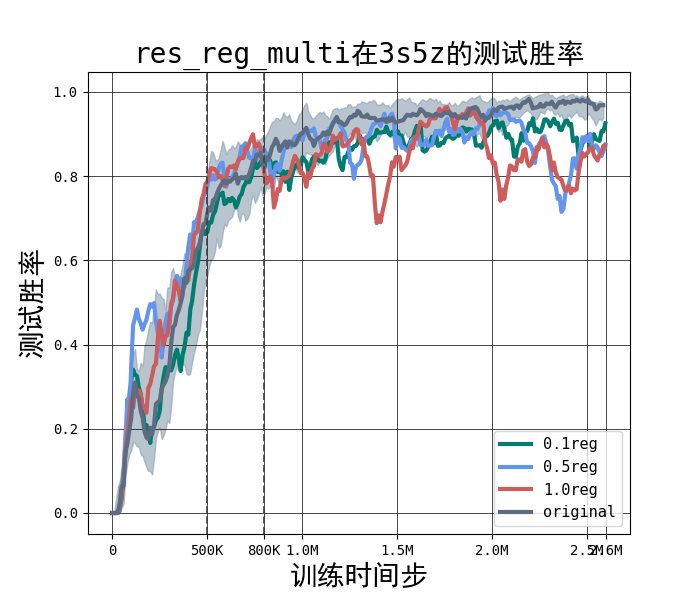
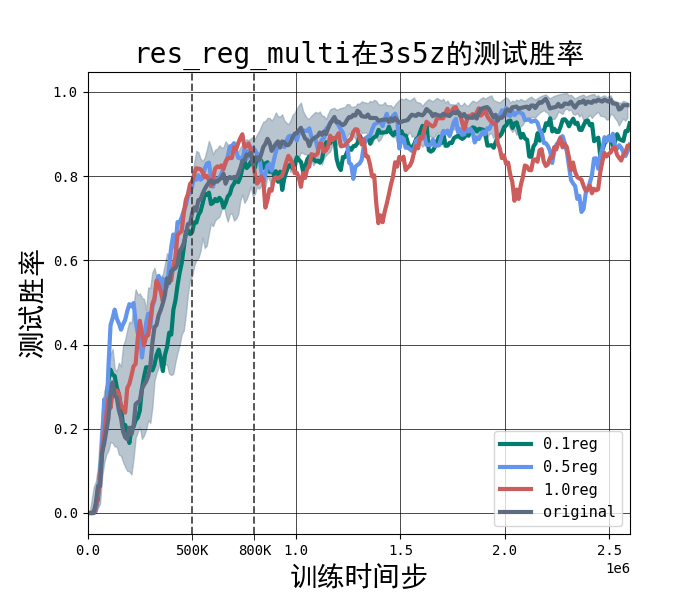
优化绘图代码 - 使用虚线体现分阶段

diff --git a/drawFigure/analyse/analyse.py b/drawFigure/analyse/analyse.py
@@ -2,6 +2,7 @@ import os
 import numpy as np
 import matplotlib.pyplot as plt
 from tensorboard.backend.event_processing import event_accumulator
+from matplotlib.ticker import FuncFormatter
 
 
 plt.rcParams["font.family"] = ["DejaVu Sans Mono", "SimHei"]  # 设置中文字体
@@ -303,6 +304,17 @@ def plot_map_algorithms(
         ax = plt.gca()
         x_axis_max = max_steps if max_steps else global_max_step
         filtered_boundaries = sorted(b for b in phase_boundaries if 0 < b < x_axis_max)
+        ax.set_xlim(left=0, right=x_axis_max)
+
+        # 若边界与主网格重合，则移除该主网格线，保留阶段虚线
+        major_ticks = [t for t in ax.get_xticks() if 0 <= t <= x_axis_max]
+        tol = 1e-6
+        filtered_major_ticks = [
+            t
+            for t in major_ticks
+            if not any(abs(t - b) <= tol for b in filtered_boundaries)
+        ]
+        ax.set_xticks(filtered_major_ticks)
 
         for boundary in filtered_boundaries:
             plt.axvline(
@@ -313,13 +325,12 @@ def plot_map_algorithms(
                 alpha=0.9,
             )
 
-        # 保留原有自动刻度（对应原网格），仅额外插入阶段边界相关刻度
-        original_ticks = [t for t in ax.get_xticks() if 0 <= t <= x_axis_max]
-        tick_values = original_ticks + [0] + filtered_boundaries + [x_axis_max]
-        tick_values = sorted(set(float(v) for v in tick_values))
-        tick_labels = [_format_step_label(v) for v in tick_values]
-        ax.set_xticks(tick_values)
-        ax.set_xticklabels(tick_labels)
+        # 保留原有主刻度和网格，仅在次刻度上标注阶段边界
+        ax.set_xticks(filtered_boundaries, minor=True)
+        ax.xaxis.set_minor_formatter(
+            FuncFormatter(lambda x, pos: _format_step_label(x))
+        )
+        ax.tick_params(axis="x", which="minor", labelbottom=True, length=4)
 
     plt.legend(fontsize=11, loc="lower right")
     plt.grid(True)
